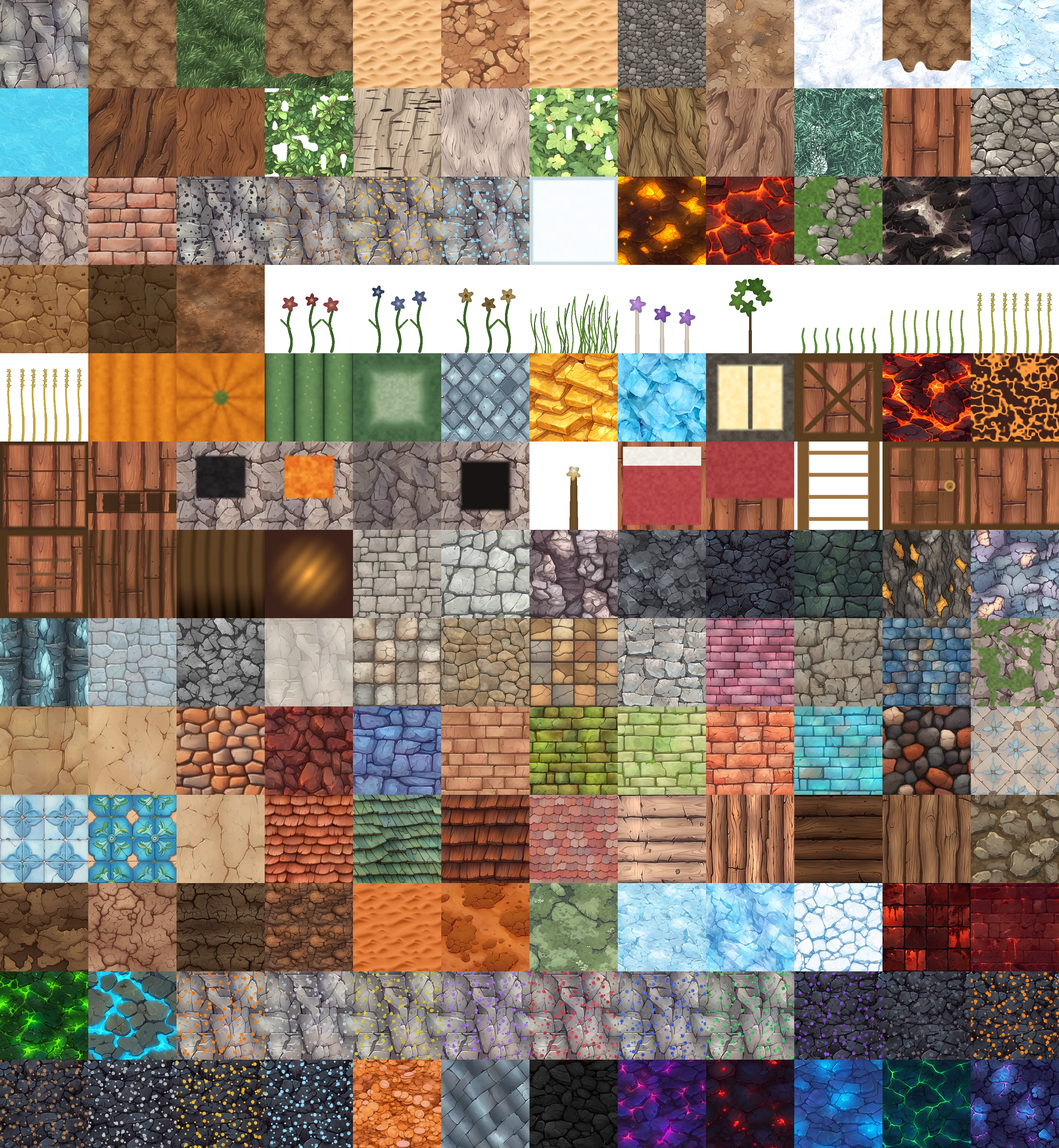
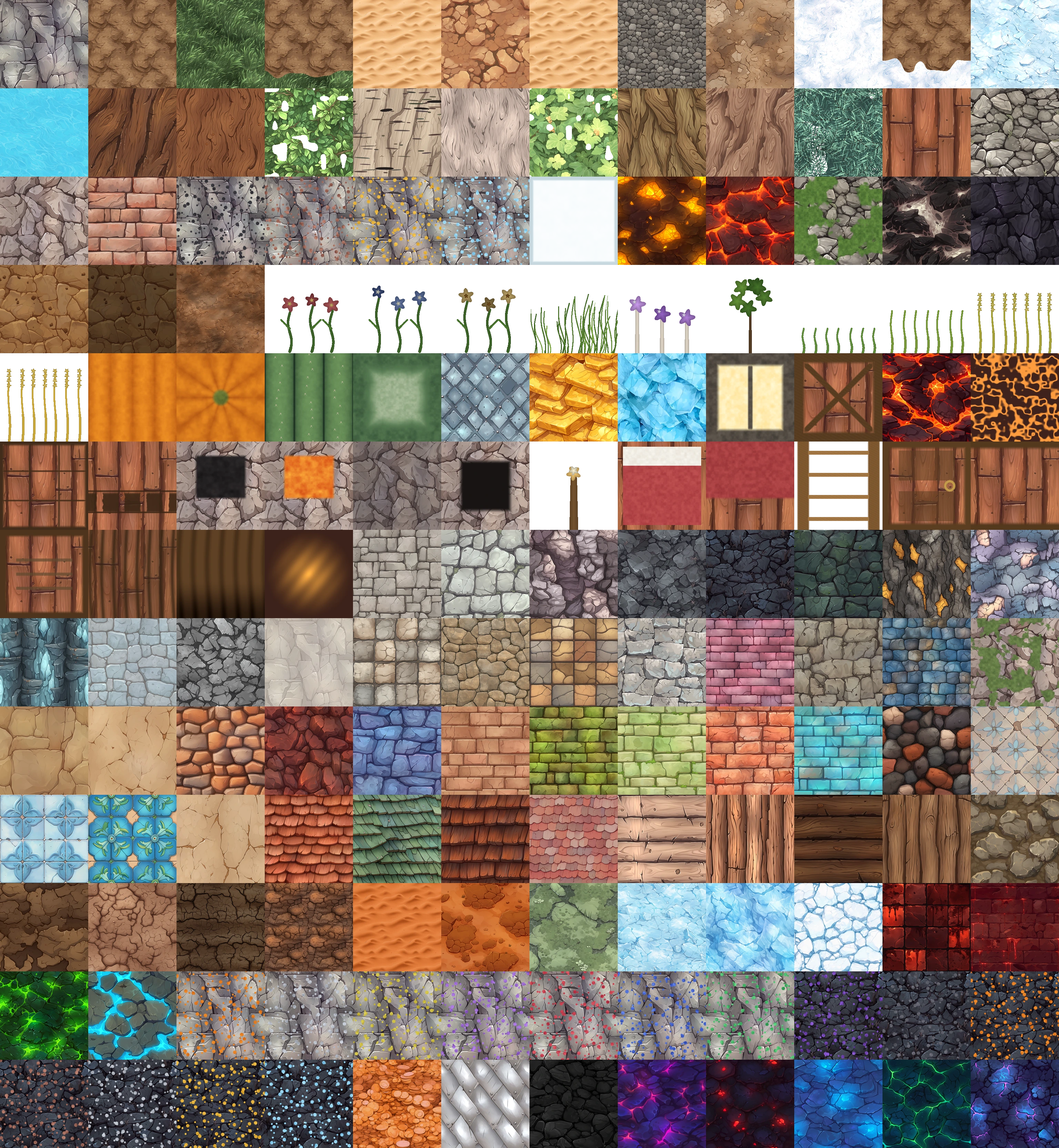
Take iron off copper's hue and put silver back at the top of the metals.
Two measured defects in the metals, both left by earlier passes.

Iron ore and copper ore were the same colour. Measured through the fleck
cores of the baked atlas, iron sat at hue 27 and copper at hue 28, with the
deep pair at 27 and 28 as well; the only thing separating them was
saturation, 0.45 against 0.75, which the eye reads as one orange lit twice
rather than as two minerals. That is a large part of why copper does not
read as the orange ore: it was not the only orange ore on the wall.

The comment above G.iron_ore in TextureGen.js names this collision and
believes it fixed. It is not, and the reason is in the comment itself: every
number that pass moved was a VALUE. It widened the spread between the dark
and light ends, put the light end above stone's 136 and the dark end below
it, and checked its work by RMS luminance. Hue is orthogonal to all of that,
so the palette came out of the rewrite on the same hue angle it went in on,
and the paragraph that says "hue stays warm-neutral ... which keeps it apart
from copper's orange" was an assertion about a number nobody re-measured.
Warm-neutral and orange are the same angle at different saturations.

So the hue moves, and it moves to red rather than to the block's blue-grey.
Cool was the other candidate and it is worse: silver's flecks already own the
cool end at hue 226, and an iron sitting there would separate from silver by
luminance alone, 119 against 182, which is the one-channel failure this file
[…]

Changed region(s): [[0.4062, 0.9062, 0.5, 1.0]]

diff --git a/src/render/TextureGen.js b/src/render/TextureGen.js
@@ -418,7 +418,27 @@ G.coal_ore = (s) => ore(s, [px([34, 34, 38]), px([70, 70, 76])], 0, 501, 0.72);
 // does not sprinkle the tile with noise; it gives every nugget a shadow side and
 // a lit side, which is what a lump of metal in rock looks like and what no
 // single mid-tone can imitate.
-G.iron_ore = (s) => ore(s, [px([104, 66, 40]), px([210, 160, 112])], 0.45, 511, 0.5);
+//
+// The paragraphs above name the copper collision and then do not fix it. Every
+// number that pass moved was a VALUE — the spread between the ends, the light
+// end above stone, the dark end below it — and value is orthogonal to hue, so
+// the palette came out of the rewrite sitting on exactly the same hue angle it
+// went in on. Measured through the fleck cores of the baked sheet: iron 27,
+// copper 28, and the deep pair 27 and 28 as well. The two ores separated only
+// by saturation, 0.45 against 0.75, which is a difference the eye reads as "the
+// same orange, in shadow" on a cave wall rather than as two minerals.
+//
+// So the hue moves this time, and it moves toward RED rather than toward the
+// block's blue-grey. Cool was the other candidate and it is the worse one:
+// silver's flecks already own the cool end at hue 226, and an iron sitting
+// there would separate from silver by luminance alone (119 against 182), which
+// is one channel of difference again and is the failure this comment has now
+// recorded twice. Red is empty — copper is at 28, gold at 42, and stone's own
+// warmth is hue 10 at saturation 0.03, which is no colour at all. It is also
+// what iron ore is: hematite and limonite are red-brown rocks, and the grey is
+// the metal you get out of them, which is what iron_block and the ingot are
+// already made of. An ore that does not match its ingot is how ore works.
+G.iron_ore = (s) => ore(s, [px([104, 58, 48]), px([216, 152, 132])], 0.45, 511, 0.5);
 // Gold and sulfur were the same tile at a glance. Both are yellow minerals in
 // pale grey rock and their flecks measured 201,171,104 and 185,171,87 — sixteen
 // counts apart in red and nothing else, which is not a difference you can see
@@ -478,7 +498,7 @@ const ORE_MINERALS = {
   // with depth is a copper vein you have to learn twice, so the two share one
   // palette again.
   deep_copper_ore: [[204, 92, 16], [255, 156, 48], 0.55, 631, 0.48],
-  deep_iron_ore: [[104, 66, 40], [210, 160, 112], 0.45, 641, 0.5],
+  deep_iron_ore: [[104, 58, 48], [216, 152, 132], 0.45, 641, 0.5],
   deep_silver_ore: [[136, 142, 152], [222, 228, 238], 0.7, 651, 0.3],
   deep_gold_ore: [[206, 146, 24], [255, 208, 86], 0.8, 661, 0.32],
   deep_crystal_ore: [[94, 178, 226], [190, 240, 255], 0.1, 671, 0.14],
